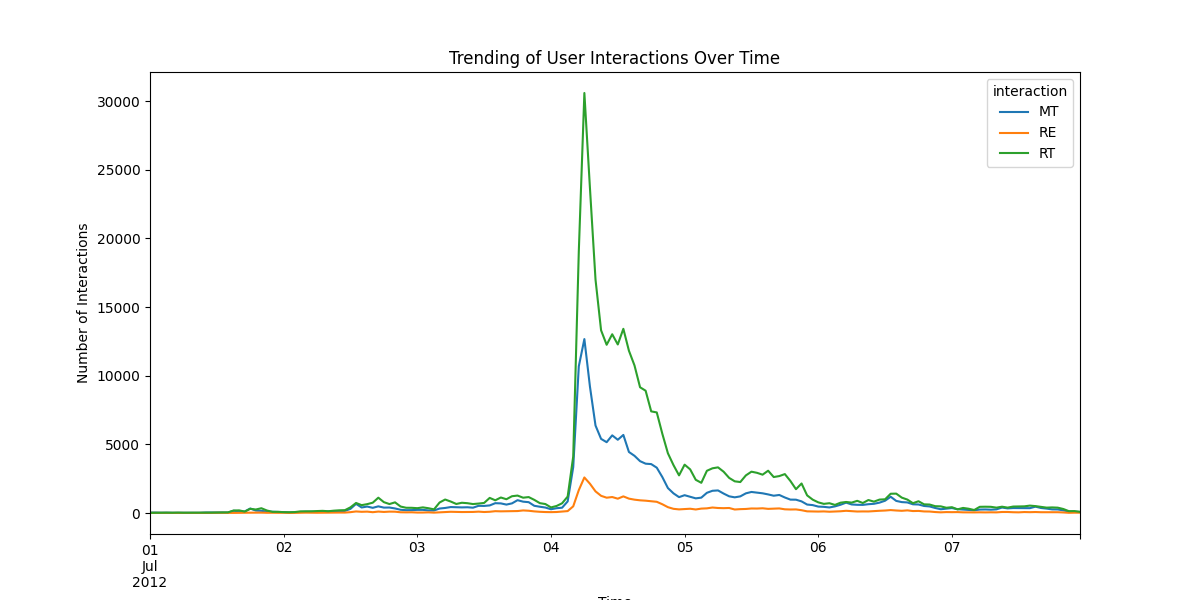
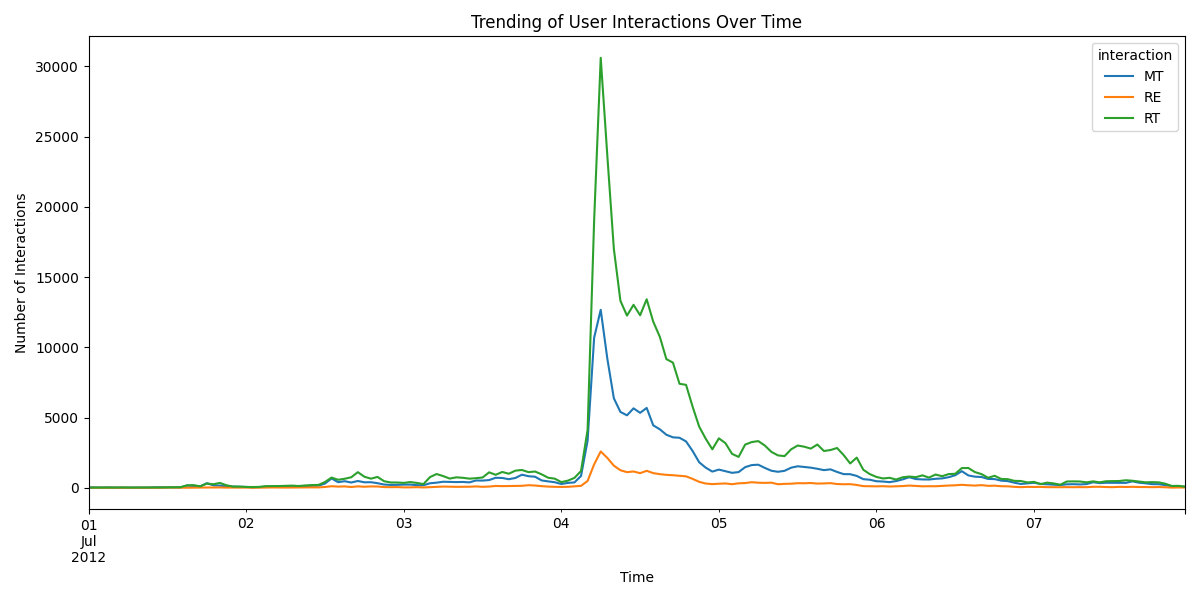
bug fix

diff --git a/algorithm.py b/algorithm.py
@@ -282,7 +282,7 @@ class OutbreakDetection:
             if nx.has_path(self.G, start_edge['target'], node) and nx.has_path(self.G, start_edge['source'], node):
                 shorted_path_a = nx.shortest_path(self.G, start_edge['target'], node)
                 shorted_path_b = nx.shortest_path(self.G, start_edge['source'], node)
-                time = min(self.G[shorted_path_a[-2]][shorted_path_a[-1]]['Timestamp'], self.G[shorted_path_b[-2]][shorted_path_b[-1]]['Timestamp']) - start_edge['Timestamp']
+                time = min(self.G[shorted_path_a[-2]][shorted_path_a[-1]]['Timestamp'], self.G[shorted_path_b[-2]][shorted_path_b[-1]]['Timestamp']) - start_edge['time']
             elif nx.has_path(self.G, start_edge['target'], node):
                 shorted_path = nx.shortest_path(self.G, start_edge['target'], node)
                 time = self.G[shorted_path[-2]][shorted_path[-1]]['Timestamp'] - start_edge['time']
@@ -454,7 +454,9 @@ class OutbreakDetection:
         reward_CB = self.reward(result_CB)
         # time_UC.extend(time_CB)
         # time_log = sorted(time_UC)
-        time_log = time_UC + time_CB
+        time_log = {}
+        for key in set(time_CB.keys()).union(time_UC.keys()):
+            time_log[key] = time_CB.get(key, 0) + time_UC.get(key, 0)
 
         logging.info(f'CELF: the reward result of UC is {reward_UC}, and CB is {reward_CB}')
         logging.debug(f'CELF: the placement of UC is {result_UC}, and CB is {result_CB}')

diff --git a/display_outbreak.py b/display_outbreak.py
@@ -35,4 +35,5 @@ interaction_counts.plot(kind='line', figsize=(12, 6))
 plt.title('Trending of User Interactions Over Time')
 plt.xlabel('Time')
 plt.ylabel('Number of Interactions')
+plt.tight_layout()
 plt.show()
